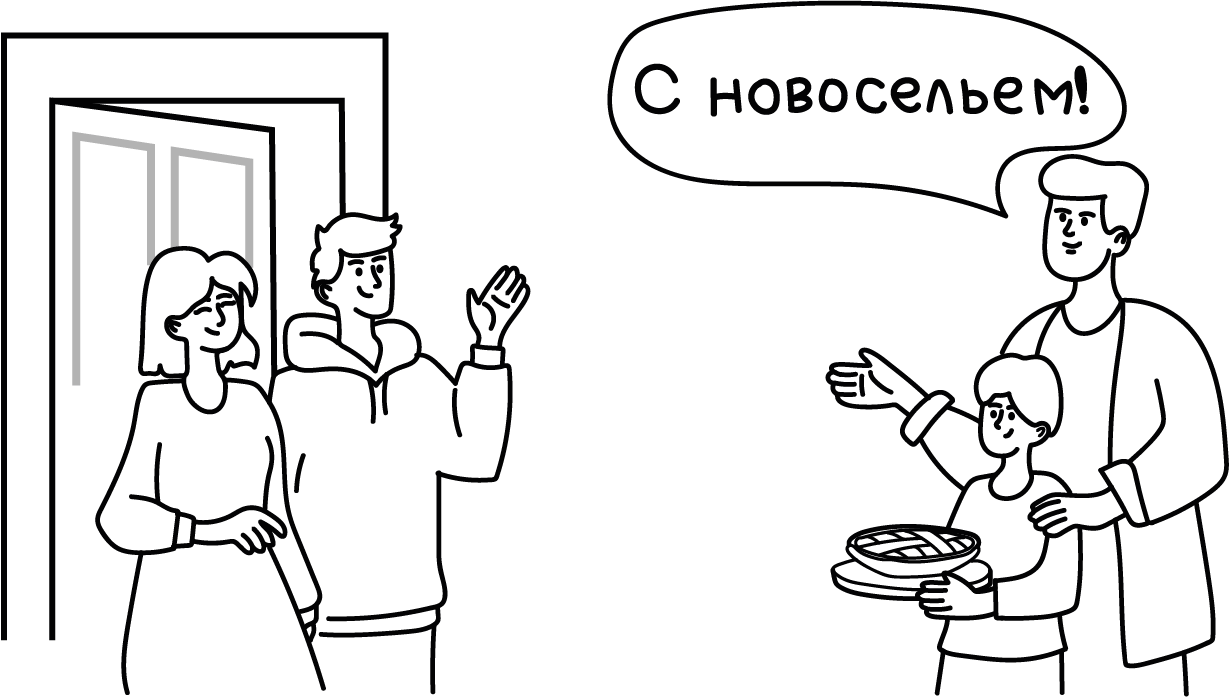
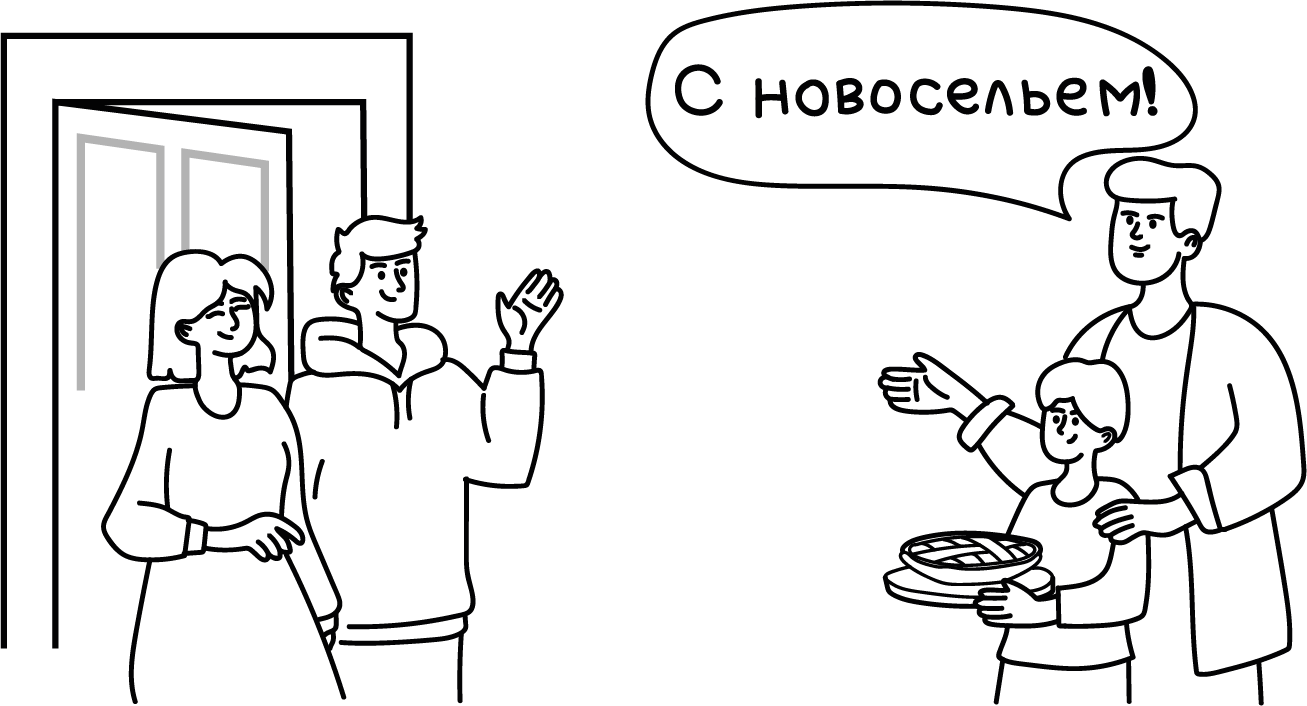
fixes and adding illustration

diff --git a/index.html b/index.html
@@ -30,7 +30,9 @@
       </ul>
     </nav>
     <section id="broke">
-      <img class="illustration" src="static/img/мастеры.png" alt="Мастер чинит кран">
+      <div class="illustration">
+        <img class="illustration" src="static/img/мастеры.png" alt="Мастер чинит кран">
+      </div>  
       <h2>Если в квартире что-то сломалось</h2>
       <p>Управляющая компания «Строительная высота» сделает все возможное, чтобы вам помочь.</p>
       <p>В доме круглосуточно дежурят сантехник и электрик. Вы можете вызвать мастера в любое время, обратившись к диспетчеру.</p>
@@ -57,7 +59,9 @@
     </section>
 
     <section id="emergency">
-      <img class="illustration" src="static/img/чп.png" alt="Авария или ЧП">
+      <div class="illustration">
+        <img class="illustration" src="static/img/чп.png" alt="Авария или ЧП">
+      </div> 
       <h2>Если произошла аварийная ситуация</h2>
       <p>Первые меры безопасности может принять каждый. Сохраняйте спокойствие и следуйте простой инструкции.</p>
 
@@ -84,14 +88,17 @@
     </section>
 
     <section id="cleaning">
-      <img class="illustration" src="static/img/уборка.png" alt="Уборка квартиры">
+      <div class="illustration">
+        <img src="static/img/уборка.png" alt="Уборка квартиры">
+      </div>
       <h2>Если в квартире нужна уборка</h2>
-      <p>Наш партнер — <a href="https://uborka-812.ru/">«Служба уборки 812»</a>. Специалисты компании занимаются поддерживающей <br>и генеральной уборкой, мойкой окон и вывозом мусора. Услуги платные, от 4 100 ₽ за поддерживающую уборку и 1 350 ₽ за стандартное окно.</p>
+      <p>Наш партнер — <a href="https://uborka-812.ru/">Служба уборки 812</a>. Специалисты компании занимаются поддерживающей <br>и генеральной уборкой, мойкой окон и вывозом мусора. Услуги платные, от 4 100 ₽ за поддерживающую уборку и 1 350 ₽ за стандартное окно.</p>
       <p>Чтобы заказать уборку, позвоните диспетчеру по тел. <a href="tel:+78126791748">+7 812 679-17-48</a>.</p>
     </section>
 
     <section id="problem">
-      <img class="illustration" src="static/img/проблема.png" alt="Проблема в ЖК">
+      <div class="illustration">
+        <img class="illustration" src="static/img/проблема.png" alt="Проблема в ЖК">
       </div>
       <h2>Если возникла проблема в жилом комплексе</h2>
       <p>Каждый день мы работаем над тем, чтобы в жилом комплексе было комфортно и чисто. Если произошла неприятная ситуация, которую мы не успели решить — сообщите нам, мы поможем.</p>
@@ -148,7 +155,9 @@
     </section>
       
     <section id="newcomer">
-      <img class="illustration" src="static/img/новоселье.png" alt="С новосельем!">
+      <div class="illustration">
+        <img class="illustration" src="static/img/новоселье.png" alt="С новосельем!">
+      </div> 
       <h2>Я — новосел. Первые шаги по обустройству в жилом комплексе</h2>
       <p>Поздравляем с переездом! Теперь расскажем, как у нас все устроено — коротко о главном.</p>
 
@@ -227,6 +236,9 @@
     </section>
 
     <section id="consultation">
+      <div class="illustration">
+        <img class="illustration" src="static/img/консультация.png" alt="Человек на приёме в УК">
+      </div> 
       <h2>Как получить личную консультацию в управляющей компании «Строительная высота»</h2>
       <p>Хотите поговорить с управляющим или секретарем? Приходите или звоните в приемные часы. <br>В экстренных ситуациях мы поможем вам по круглосуточному телефону <a href="tel:+78126791748">+7 812 679-17-48</a>.</p>
       <div class="appointment">

diff --git a/static/style.css b/static/style.css
@@ -26,6 +26,7 @@ nav {
       padding: 0;
       margin: 0;
       list-style: none;
+      padding-inline-start: 0px !important;
     }
     .nav-grid li {
       margin: 0;
@@ -52,17 +53,6 @@ nav {
     }
     section {
       margin-bottom: 4rem;
-    }
-    .illustration {
-      height: 350px;
-      margin-bottom: 1rem;
-      display: flex;
-      align-items: center;
-      justify-content: center;
-      color: #4c4c4c;
-      font-size: 0.9rem;
-      border-radius: 8px;
-      margin: 0 auto;
     }
     h2 {
       font-size: 1.8rem;
@@ -99,6 +89,27 @@ nav {
     .working-hours {
       margin-top: 0.8rem;
     }
+.illustration {
+  display: flex;
+  justify-content: center;
+  align-items: center;
+}
+
+.illustration img {
+  max-width: 100%;
+  max-height: 300px;
+  width: auto;
+  height: auto;
+  display: block;
+}
+
+@media (min-width: 768px) {
+  .illustration img {
+    max-width: 75%;
+    max-height: 300px;
+  }
+}
+
 
     @media (max-width: 600px) {
       header h1 {
@@ -109,10 +120,6 @@ nav {
       }
       h2 {
         font-size: 1.5rem;
-      }
-      .illustration {
-        height: 140px;
-        font-size: 0.8rem;
       }
     }
     @media (max-width: 768px) {
